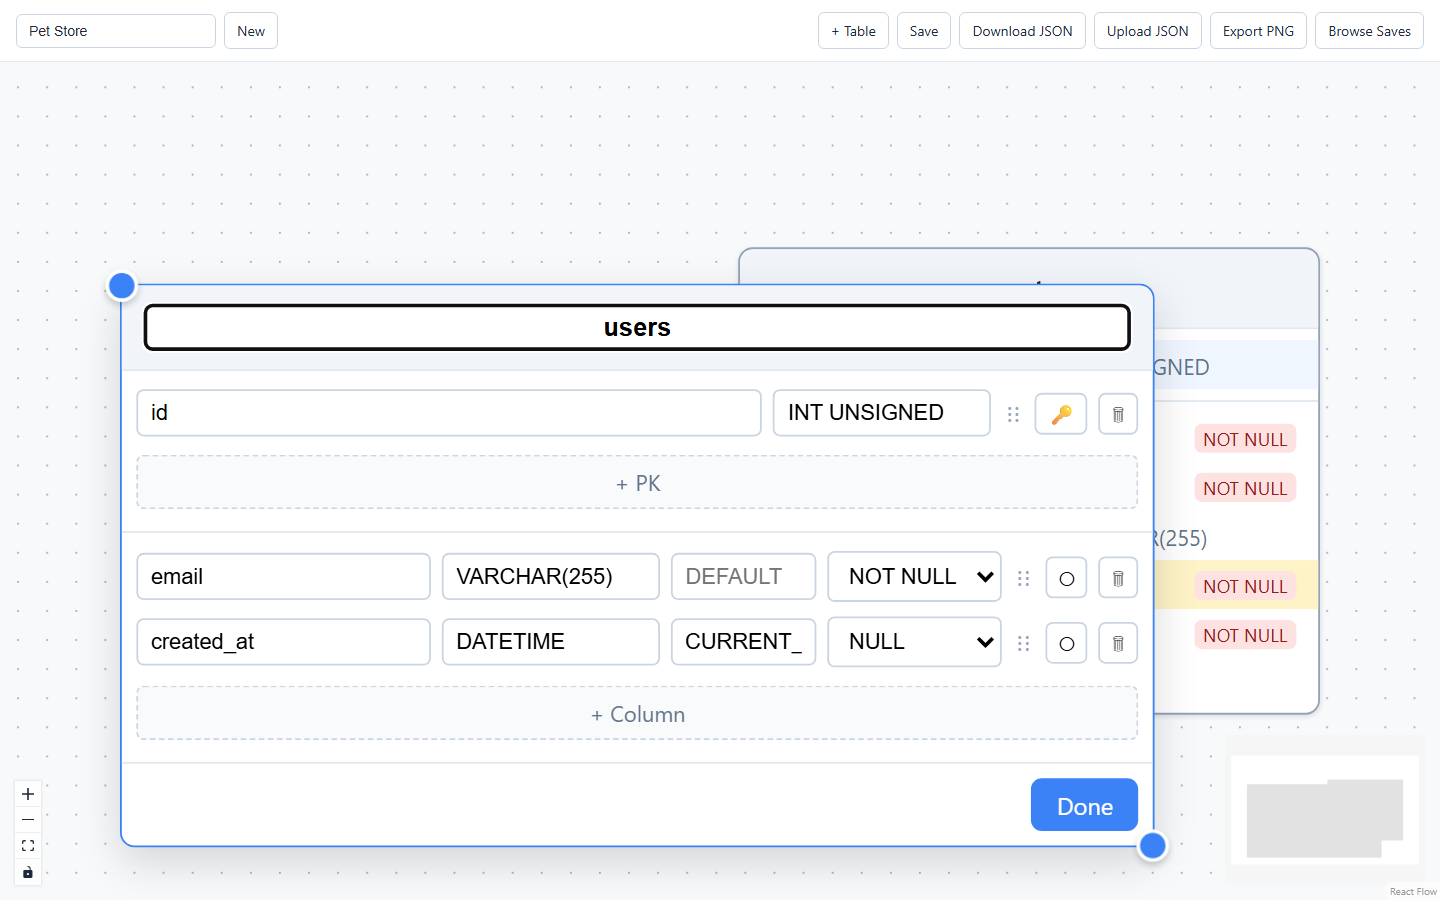
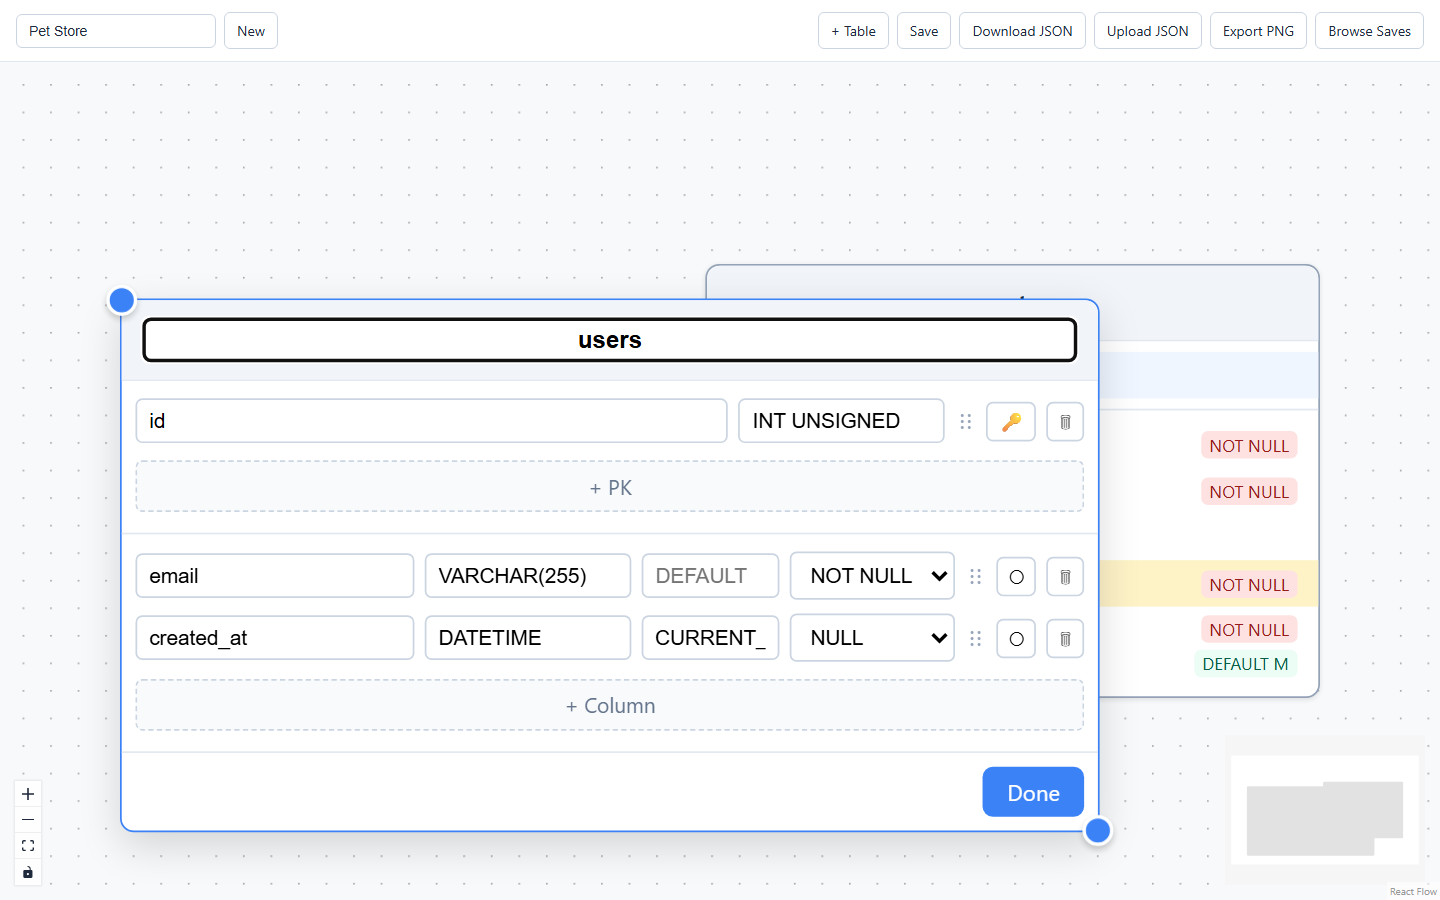
Update layout

diff --git a/src/components/TableNode.tsx b/src/components/TableNode.tsx
@@ -342,14 +342,16 @@ export function TableNode(props: NodeProps<TableNodeType>) {
                 <span className="table-row-name">{column.name}</span>
               </div>
               <span className="table-row-type">{column.dataType}</span>
-              {column.isNullable === false && (
-                <span className="table-row-badge table-row-badge--nn">NOT NULL</span>
-              )}
-              {column.defaultValue !== undefined && column.defaultValue !== '' && (
-                <span className="table-row-badge table-row-badge--default">
-                  DEFAULT {column.defaultValue}
-                </span>
-              )}
+              <div className="table-row-badges">
+                {column.isNullable === false && (
+                  <span className="table-row-badge table-row-badge--nn">NOT NULL</span>
+                )}
+                {column.defaultValue !== undefined && column.defaultValue !== '' && (
+                  <span className="table-row-badge table-row-badge--default">
+                    DEFAULT {column.defaultValue}
+                  </span>
+                )}
+              </div>
             </div>
           );
         })}

diff --git a/src/App.css b/src/App.css
@@ -149,7 +149,7 @@
 
 .table-row {
   display: grid;
-  grid-template-columns: 1fr 120px auto;
+  grid-template-columns: 1fr 120px 120px;
   gap: 8px;
   align-items: center;
   padding: 5px 12px;
@@ -187,6 +187,14 @@
   overflow: hidden;
   text-overflow: ellipsis;
   white-space: nowrap;
+}
+
+.table-row-badges {
+  display: flex;
+  align-items: center;
+  justify-content: flex-end;
+  gap: 4px;
+  flex-wrap: wrap;
 }
 
 .table-row-badge {